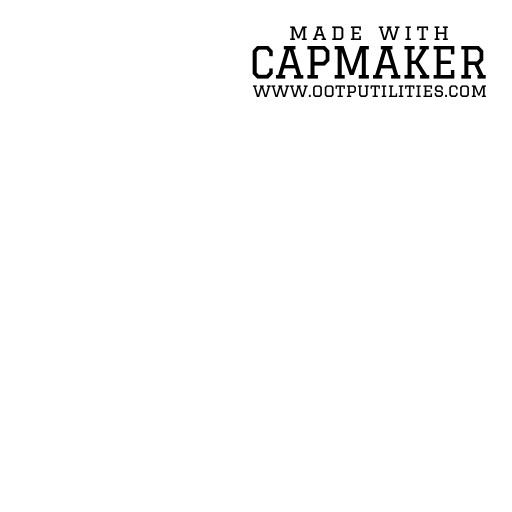
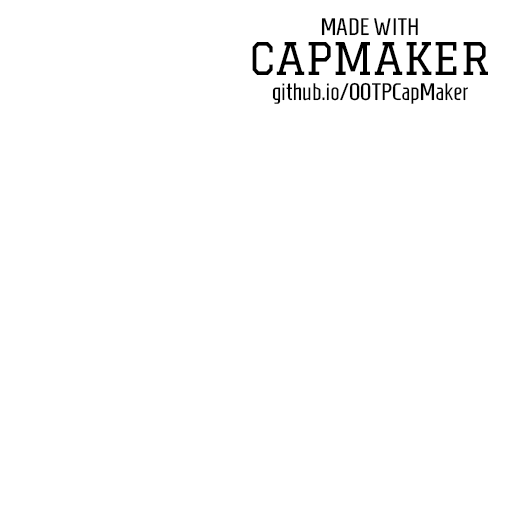
new watermark & remove base64 string

Changed region(s): [[0.5, 0.0312, 0.9688, 0.2188]]

diff --git a/main.js b/main.js
@@ -14,7 +14,7 @@ const app2 = express();
 const ttfInfo = require('ttfinfo');
 const url = require('url');
 const isMac = process.platform === 'darwin'
[1 lines of base64/hex data omitted]
+
 
 const template = [
 // { role: 'appMenu' }
@@ -178,6 +178,7 @@ app2.post('/savecap', (req, res) => {
 			if(err) {
 				console.log(err);
 			} else {
+				var watermark = fs.readFileSync(__dirname + "\\images\\cm_watermark.png", {encoding: 'base64'});
 				var buffer = Buffer.from(watermark, 'base64');
 					Jimp.read(buffer, (err, sec_img) => {
 						if(err) {
